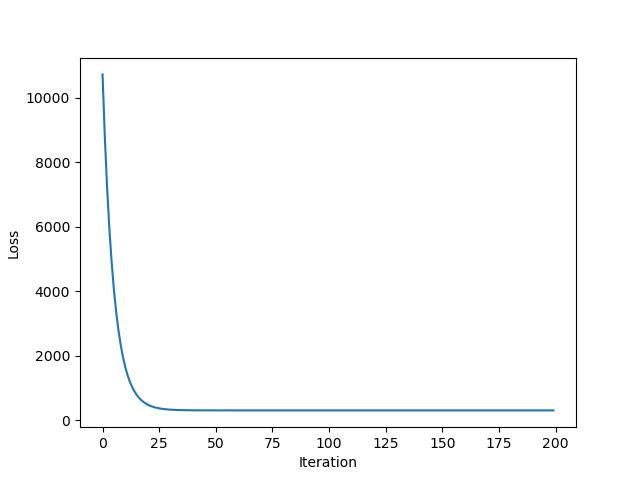
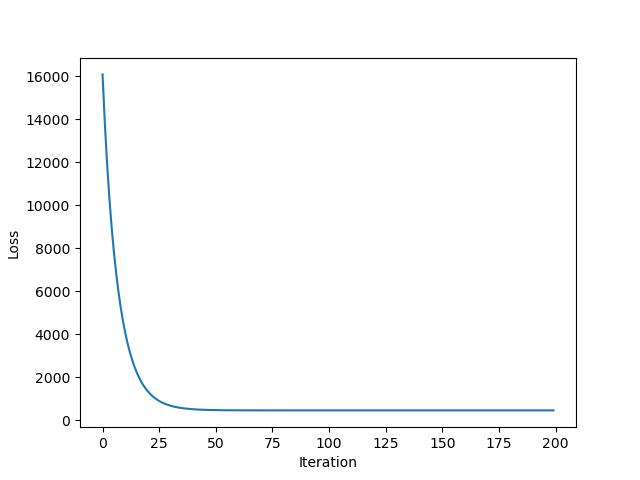
hw5 done

diff --git a/hw5/hw5.py b/hw5/hw5.py
@@ -113,7 +113,7 @@ if __name__ == "__main__":
         symbol = "="
 
     print("Q6a: " + symbol)
-    print("Q6b: if w = 0, the year has no impact on the number of days the lake was frozen.\nif w > 0 then it would indicate as the year increases, the number of frozen days tends to increase as well.\nif w < 0 then it would indicate that as the year increases, the number of frozen days tends to decrease.")
+    print("Q6b: if w = 0, the year has no impact on the number of days the lake was frozen. if w > 0 then it would indicate as the year increases, the number of frozen days tends to increase as well. if w < 0 then it would indicate that as the year increases, the number of frozen days tends to decrease.")
 
 
     #Question 7 - Model Limitations

diff --git a/README.MD b/README.MD
@@ -1,0 +1,1 @@
+### Howdy folks, here is my cs540 projects
